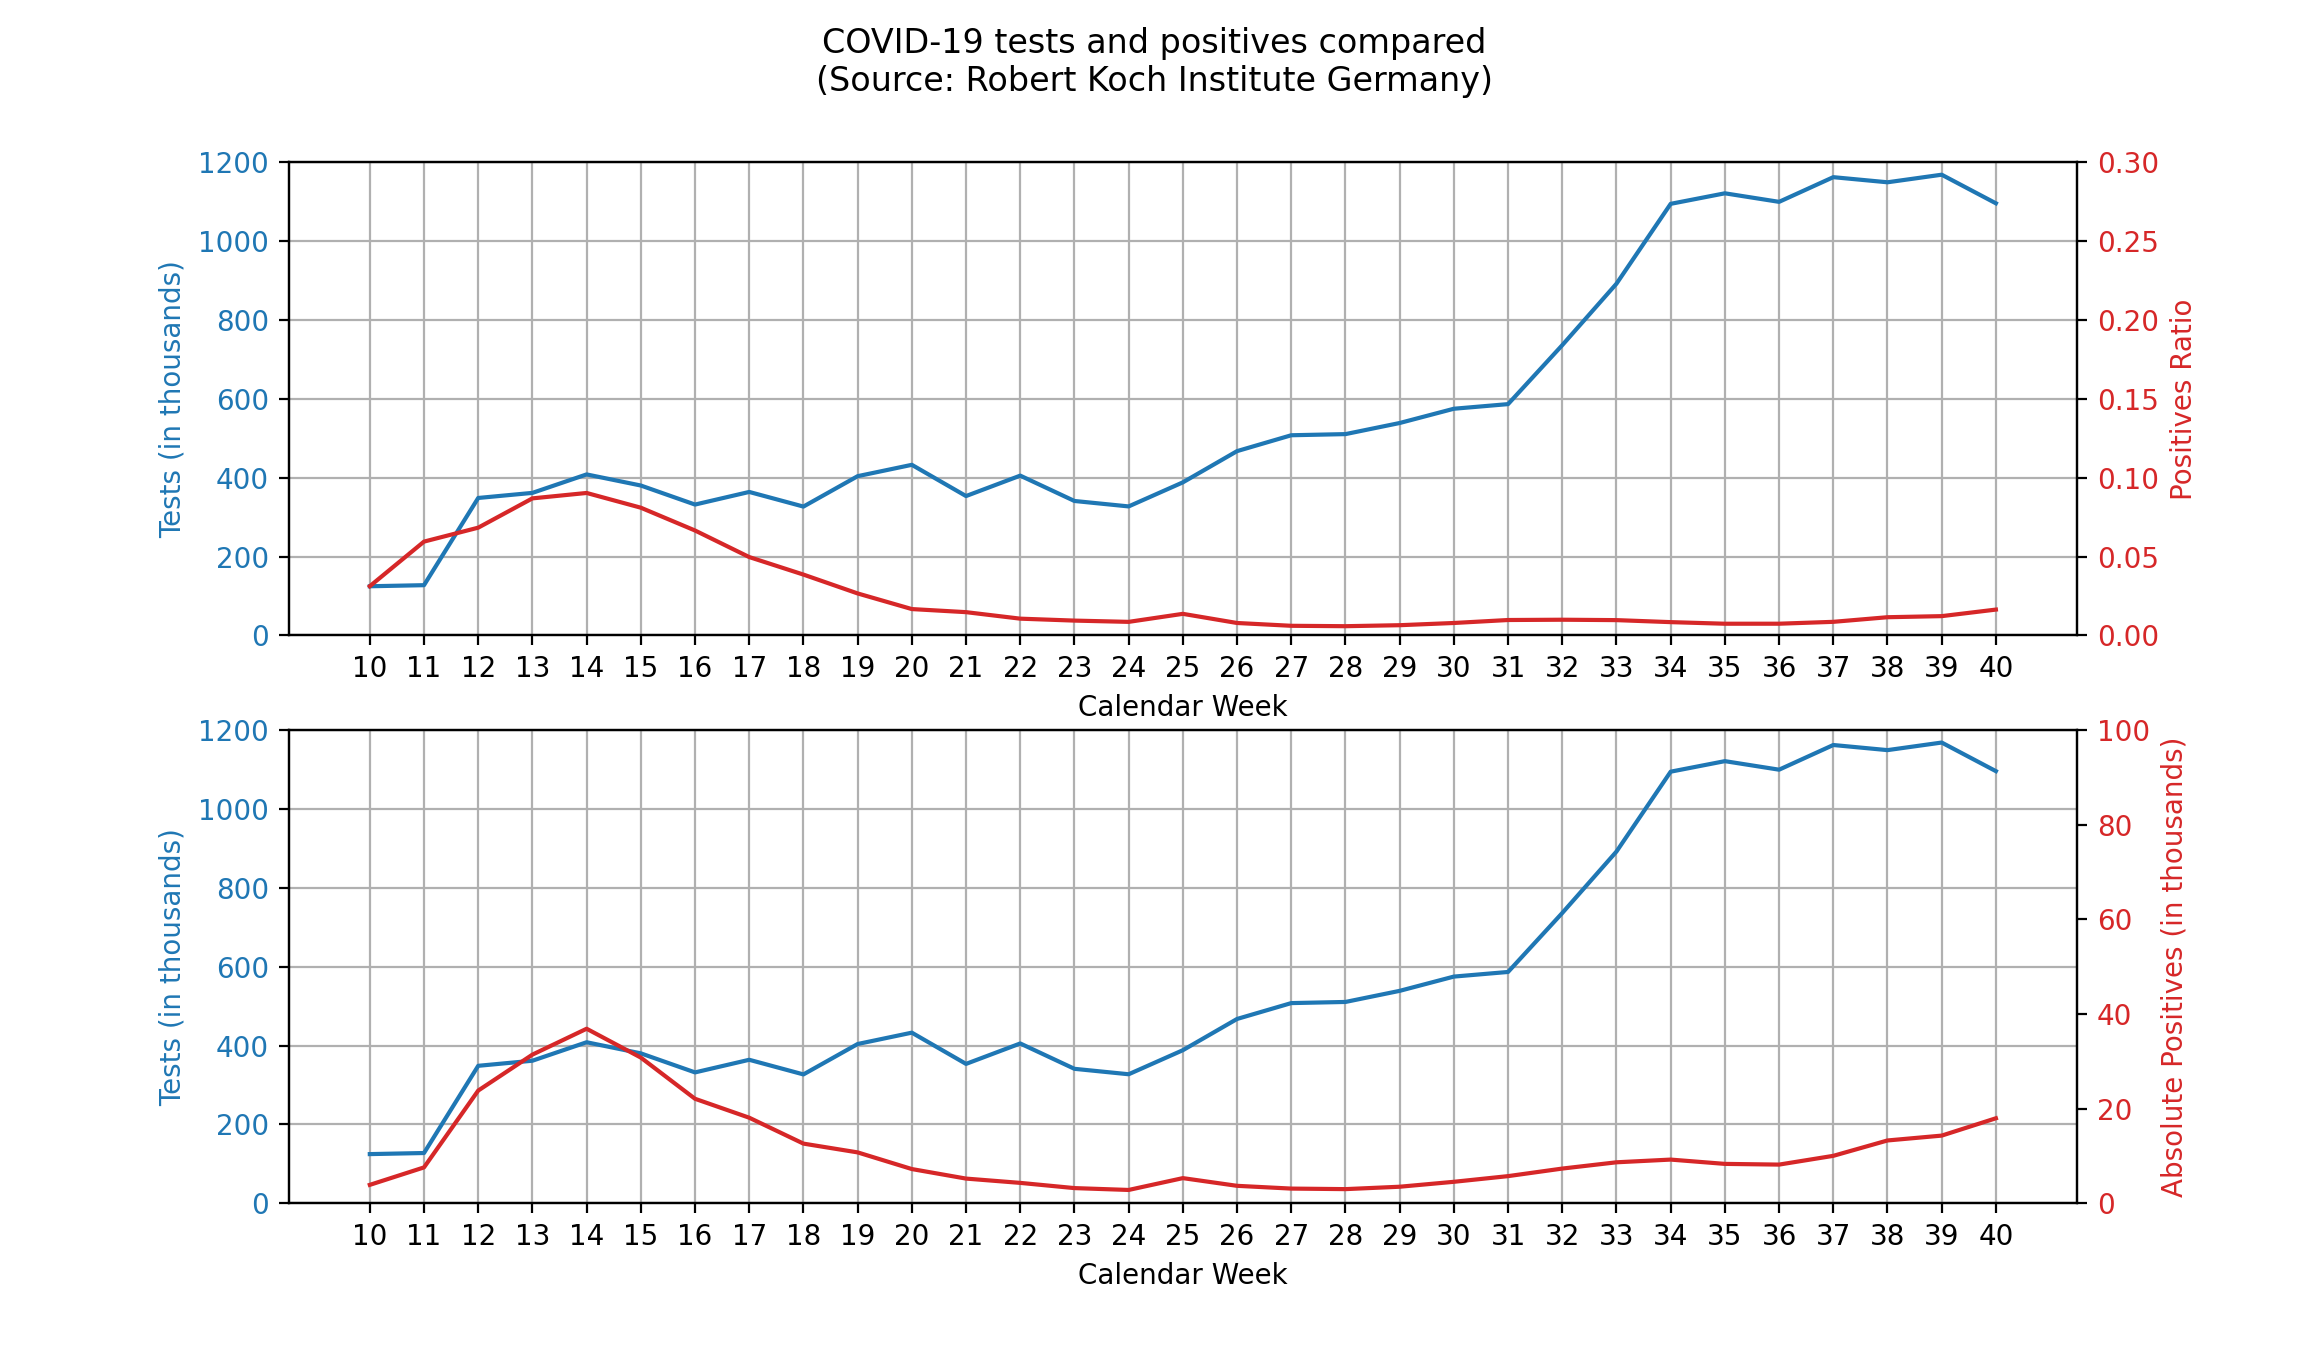
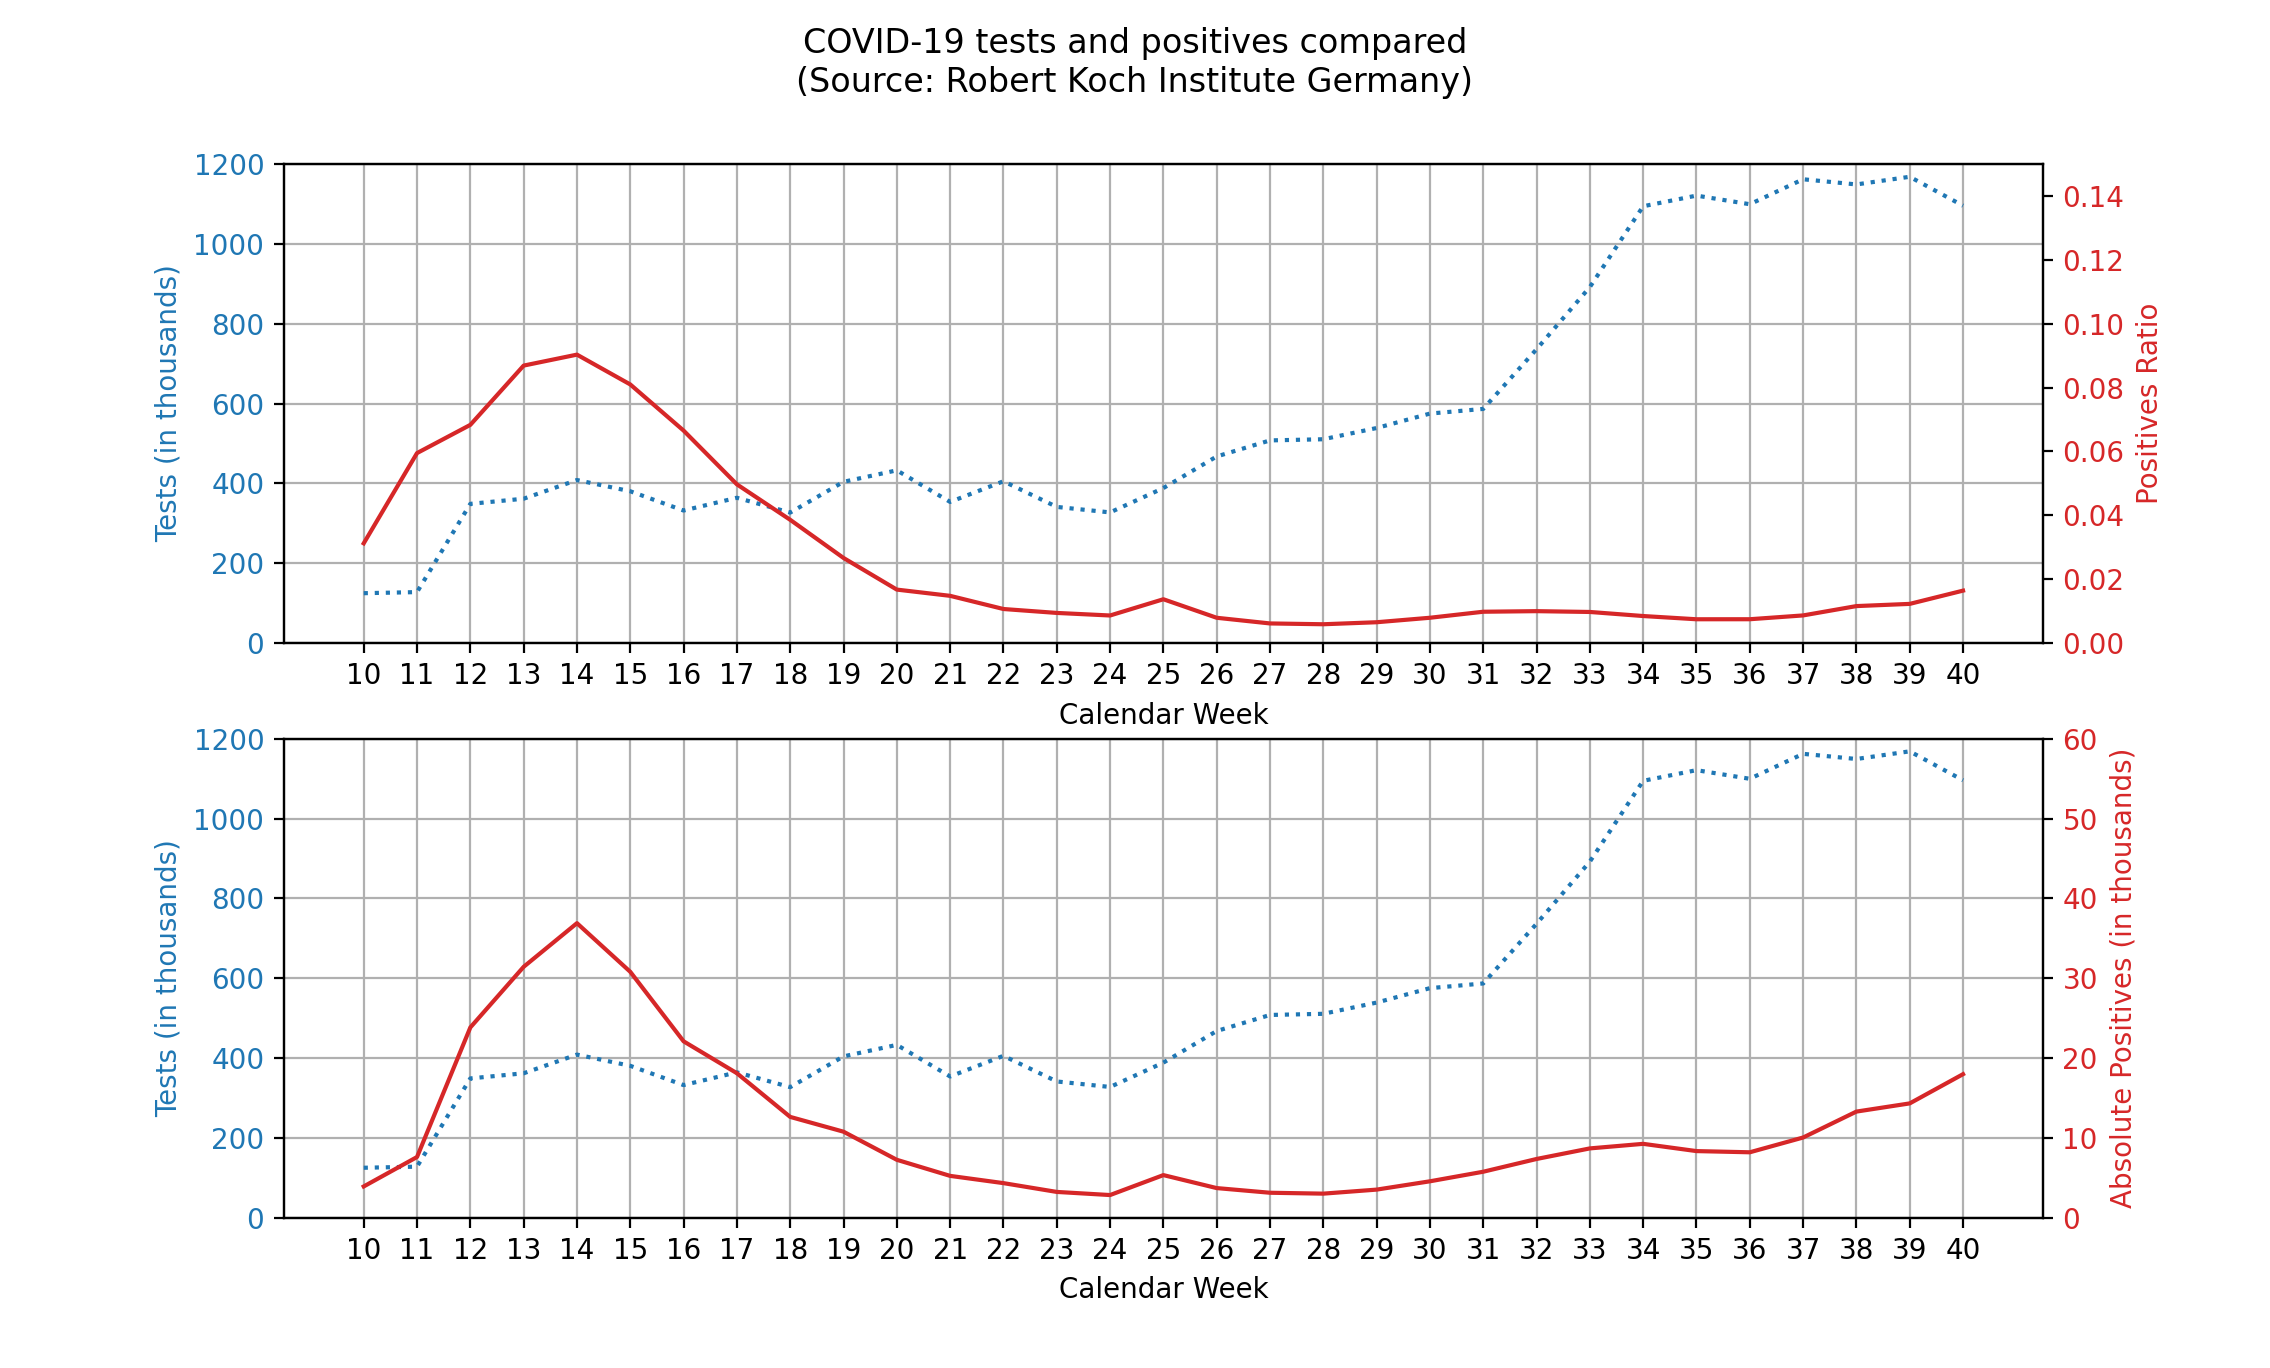
better visualization of ratio

diff --git a/corona_analysis.py b/corona_analysis.py
@@ -89,7 +89,7 @@ def positives_to_tests_germany():
     color = 'tab:blue'
     ax1.set_xlabel('Calendar Week')
     ax1.set_ylabel('Tests (in thousands)', color=color)
-    ax1.plot(time, tests, color=color)
+    ax1.plot(time, tests, ":b", color=color)
     ax1.tick_params(axis='y', labelcolor=color)
     ax2 = ax1.twinx()
     color = 'tab:red'
@@ -97,7 +97,7 @@ def positives_to_tests_germany():
     ax2.plot(time, positives_ratio, color=color)
     ax2.tick_params(axis='y', labelcolor=color)
     ax1.set_ylim([0, 1200])
-    ax2.set_ylim([0, 0.3])
+    ax2.set_ylim([0, 0.15])
 
     plt.subplot(2, 1, 2)
     ax1 = plt.gca()
@@ -106,7 +106,7 @@ def positives_to_tests_germany():
     color = 'tab:blue'
     ax1.set_xlabel('Calendar Week')
     ax1.set_ylabel('Tests (in thousands)', color=color)
-    ax1.plot(time, tests, color=color)
+    ax1.plot(time, tests, ":b", color=color)
     ax1.tick_params(axis='y', labelcolor=color)
     ax2 = ax1.twinx()
     color = 'tab:red'
@@ -114,7 +114,7 @@ def positives_to_tests_germany():
     ax2.plot(time, positives, color=color)
     ax2.tick_params(axis='y', labelcolor=color)
     ax1.set_ylim([0, 1200])
-    ax2.set_ylim([0, 100])
+    ax2.set_ylim([0, 60])
 
 
     plt.show()
